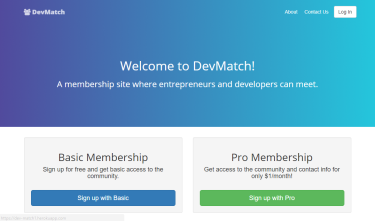
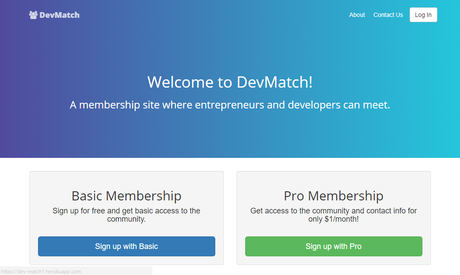
Updated Projects and Skills

diff --git a/index.html b/index.html
@@ -30,7 +30,7 @@
         (i[r].q = i[r].q || []).push(arguments)
       }, i[r].l = 1 * new Date();
       a = s.createElement(o),
-        m = s.getElementsByTagName(o)[0];
+          m = s.getElementsByTagName(o)[0];
       a.async = 1;
       a.src = g;
       m.parentNode.insertBefore(a, m)
@@ -56,6 +56,7 @@
     <a href="#about" onclick="closer()">About</a>
     <a href="#skills" onclick="closer()">Skills</a>
     <a href="#projects" onclick="closer()">Projects</a>
+    <a href="https://jennifertran.github.io/MiniProjects/" onclick="closer()" target="_blank">Mini Projects</a>
     <a href="#contact" onclick="closer()">Contact</a>
   </div>
 
@@ -91,7 +92,8 @@
         <div class="profile">
 
           <!-- Alt is used if the image is not loading -->
-          <center><img src="assets/images/profile.jpg" alt="Simple icon" class="img-responsives img-circle"></center>
+          <center><img src="assets/images/profile.jpg" id="portPic" alt="Simple icon" class="img-responsives
+            img-circle"></center>
         </div>
       </div>
 
@@ -99,12 +101,12 @@
         <div class="about-description">
           <b><h3>About Me</h3></b>
           <hr>
-          <p>I'm currently a Computer Science student at the University of Manitoba who loves learning
+          <p>Hello! I'm currently a Computer Science student at the University of Manitoba who loves learning
             about new software technologies and design. Ever since I was exposed to web development in elementary
-            school,
-            my passion for software have grown tremendously through web design.
+            school, my passion for software have grown tremendously throughout the years.
             <br><br>
-            As a hobby, I like to read, draw, and give back to the community by volunteering at local events. In the
+            As a hobby, I like to read, draw, and give back to the community by volunteering at local events and
+            being one of the leaders of a student group called .devClub. In the
             future, I hope to create some projects that shows people the beauty behind design.</p>
         </div>
 
@@ -126,7 +128,8 @@
         <ul>
           <li>Java</li>
           <li>C</li>
-          <li>C++</li>
+          <li>Python</li>
+          <li>JavaScript</li>
           <li>Ruby</li>
           <li>Ruby on Rails</li>
         </ul>
@@ -139,9 +142,11 @@
         <ul>
           <li>HTML</li>
           <li>CSS</li>
-          <li>JavaScript</li>
+          <li>Flask</li>
+          <li>Bower</li>
           <li>Bootstrap</li>
           <li>jQuery</li>
+          <li>Three.js</li>
         </ul>
         <br>
       </div>
@@ -154,7 +159,8 @@
           <li>Android</li>
           <li>UI/UX Design</li>
           <li>Git</li>
-          <li>A-Frame</li>
+          <li>UNIX</li>
+          <li>Latex</li>
         </ul>
         <br>
       </div>
@@ -172,19 +178,56 @@
 
     <div class="row">
       <div>
+        <!-- Music Visualizer -->
+        <div class="col-md-5">
+          <center><img src="assets/images/visualizer.png" alt="Music Visualizer" class="img-responsive"></center>
+        </div>
+        <div class="col-md-7">
+          <b><h3>Music Visualizer</h3></b>
+          <hr>
+          <p>Dynamically displays a visual effect that is responsive to an audio track with dynamic interfaces</p>
+          <br>
+          <p><a href="https://jennifertran.github.io/MusicVisualizer/" target="_blank">Demo</a> | <a
+                  href="https://github.com/jennifertran/MusicVisualizer" target="_blank">Source</a></p>
+        </div>
+      </div>
+    </div>
+
+    <br>
+
+    <div class="row">
+      <div>
+        <!-- Search Engine Award -->
+        <div class="col-md-5">
+          <center><img src="assets/images/searchengineaward.png" alt="Search Engine Award" class="img-responsive"></center>
+        </div>
+        <div class="col-md-7">
+          <b><h3>Search Engine Award</h3></b>
+          <hr>
+          <p>An improved version of the University of Manitoba's Award's Database, made for an Industry Project</p>
+          <br>
+          <p><a href="https://searchengineaward.herokuapp.com/" target="_blank">Demo</a> | <a
+                  href="https://github.com/jennifertran/SearchEngineAward" target="_blank">Source</a></p>
+        </div>
+      </div>
+    </div>
+
+    <br>
+
+    <div class="row">
+      <div>
         <!-- Travelers -->
         <div class="col-md-5">
-          <center><img src="assets/images/travelers.jpg" alt="Travelers" class="img-responsive travelers"></center>
+          <center><img src="assets/images/travelers.jpg" alt="Travelers" class="img-responsive"></center>
         </div>
         <div class="col-md-7">
           <b><h3>Travelers</h3></b>
           <hr>
-          <p>A booking application that allows users to book for flights, car rentals, and hotels.</p>
+          <p>A booking application that allows users to book for flights, car rentals, and hotels</p>
           <br>
           <p><a href="https://github.com/jennifertran/Travelers" target="_blank">Source</a></p>
         </div>
       </div>
-
     </div>
 
     <br>
@@ -200,10 +243,10 @@
           <hr>
           <p>A Ruby on Rails app that allows entrepreneurs and developers meetup. Features include a user interface,
             login/logout system with authentication, email notifications, and subscription payments for premium
-            services.</p>
+            services</p>
           <br>
           <p><a href="https://dev-match1.herokuapp.com/" target="_blank">Demo</a> | <a
-            href="https://github.com/jennifertran/DevMatch" target="_blank">Source</a></p>
+                  href="https://github.com/jennifertran/DevMatch" target="_blank">Source</a></p>
         </div>
       </div>
 
@@ -223,7 +266,7 @@
           <p>A coding challenge that builds 30 different projects in 30 days. Used HTML, CSS, JavaScript</p>
           <br>
           <p><a href="https://jennifertran.github.io/JavaScript30/" target="_blank">Demo</a> | <a
-            href="https://github.com/jennifertran/JavaScript30" target="_blank">Source</a></p>
+                  href="https://github.com/jennifertran/JavaScript30" target="_blank">Source</a></p>
         </div>
       </div>
 
@@ -240,10 +283,10 @@
         <div class="col-md-7">
           <b><h3>Mini Projects</h3></b>
           <hr>
-          <p>A collection of experimental web projects ranging from 3D graphics to simple UI interfaces.</p>
+          <p>A collection of experimental web projects ranging from 3D graphics to simple UI interfaces</p>
           <br>
           <p><a href="https://jennifertran.github.io/MiniProjects/" target="_blank">Demo</a> | <a
-            href="https://github.com/jennifertran/MiniProjects" target="_blank">Source</a></p>
+                  href="https://github.com/jennifertran/MiniProjects" target="_blank">Source</a></p>
         </div>
       </div>
 
@@ -261,10 +304,10 @@
           <b><h3>Space Simulator in VR</h3></b>
           <hr>
           <p>An outer space environment in WebVR using the framework A-Frame. Created during MLH Local Hack Day
-            2016.</p>
+            2016</p>
           <br>
           <p><a href="https://jennifertran.github.io/space-simulator/" target="_blank">Demo</a> | <a
-            href="https://github.com/jennifertran/space-simulator" target="_blank">Source</a></p>
+                  href="https://github.com/jennifertran/space-simulator" target="_blank">Source</a></p>
         </div>
       </div>
 
@@ -285,7 +328,7 @@
             jQuery, and BootStrap</p>
           <br>
           <p><a href="https://jennifertran.github.io/online-ordering-system/" target="_blank">Demo</a> | <a
-            href="https://github.com/jennifertran/online-ordering-system" target="_blank">Source</a></p>
+                  href="https://github.com/jennifertran/online-ordering-system" target="_blank">Source</a></p>
         </div>
       </div>
 
@@ -350,22 +393,19 @@
 
   </div>
 </div>
-</div>
 
 <!--Footer-->
 <div class="footer header">
   <div class="container">
-    <center>
-      <footer><p>© 2017 by Jennifer Tran</p></footer>
-    </center>
+    <footer><p>© 2017 by Jennifer Tran</p></footer>
   </div>
 </div>
 
 <!-- Imports jquery,bootstrap, and javascript -->
 <script
-  src="https://code.jquery.com/jquery-3.1.1.js"
-  integrity="sha256-16cdPddA6VdVInumRGo6IbivbERE8p7CQR3HzTBuELA="
-  crossorigin="anonymous"></script>
+        src="https://code.jquery.com/jquery-3.2.1.min.js"
+        integrity="sha256-hwg4gsxgFZhOsEEamdOYGBf13FyQuiTwlAQgxVSNgt4="
+        crossorigin="anonymous"></script>
 <script src="https://maxcdn.bootstrapcdn.com/bootstrap/3.3.7/js/bootstrap.min.js"
         integrity="sha384-Tc5IQib027qvyjSMfHjOMaLkfuWVxZxUPnCJA7l2mCWNIpG9mGCD8wGNIcPD7Txa"
         crossorigin="anonymous"></script>

diff --git a/assets/main.css b/assets/main.css
@@ -1,64 +1,1 @@
-a:link, a:visited{color:#005F6B;}
-p{font-family:'Open Sans', sans-serif;font-size:14pt;}
-h1{font-family:'GilroyBold', 'Montserrat', serif !important;font-size:14vmin !important;}
-h2{font-family:'MoonLight', 'Open Sans', sans-serif !important;font-size:25pt !important;text-align:center;}
-h3{font-family:'MoonBold', 'Open Sans', sans-serif !important;font-size:20pt !important;text-align:center;}
-h4{font-family:'Open Sans', sans-serif;font-size:15pt;}
-li{font-family:'Open Sans', sans-serif;font-size:14pt;}
-@font-face{font-family:GilroyBold;src:url('fonts/Gilroy-ExtraBold.otf');}
-@font-face{font-family:GilroyLight;src:url('fonts/Gilroy-Light.otf');}
-@font-face{font-family:MoonBold;src:url('fonts/Moon-Bold.otf');}
-@font-face{font-family:MoonLight;src:url('fonts/Moon-Light.otf');}
-.navName{font-family:'MoonBold', 'Open Sans', sans-serif;font-size:14pt;color:black;}
-ul{width:70%;margin:auto;}
-.img{position:absolute;top:0;bottom:0;left:0;right:0;margin:auto;}
-.img-responsives{max-width:70%;max-height:70%;}
-.header{background:linear-gradient(rgba(0, 0, 0, 0.2), rgba(0, 0, 0, 0.2)), url(images/background.png) no-repeat center;background-size:cover;}
-.background{position:absolute;z-index:1;}
-.vertical-center{height:100vh;color:white;text-shadow:2px 2px 4px #000000;min-height:100%;min-height:100vh;display:flex;align-items:center;}
-.navbar-default{background-color:white !important;}
-.navbar-default .navbar-brand,
-.navbar-default .navbar-brand:hover,
-.navbar-default .navbar-brand:focus{color:#FFF;}
-.navbar-default .navbar-nav > li > a{color:black !important;}
-.navbar-default .navbar-nav > li > a:hover,
-.navbar-default .navbar-nav > li > a:focus{background-color:#008C9E !important;color:white !important;}
-.navbar-default .navbar-text{color:black;}
-.navbar-default .navbar-toggle{border-color:black;border-radius:5px;border-width:1px;}
-.navbar-default .navbar-toggle:hover,
-.navbar-default .navbar-toggle:focus{background-color:white;}
-.navbar-default .navbar-toggle .icon-bar{background-color:black;}
-.navbar-default .navbar-toggle{border-color:#FFFFFF !important;}
-.navbar-default .navbar-toggle:focus, .navbar-default .navbar-toggle:hover{background-color:#FFF !important;}
-.hr, .contact-icon{color:black;}
-.padding{padding-top:80px;padding-bottom:80px;}
-.about{background-color:white;color:black;margin:15px !important;}
-.skills{color:black;font-family:'Open Sans';background-color:#f5f5f0;display:flex;align-items:center;padding-left:15px !important;padding-right:15px !important;}
-.projects{background-color:white;color:black;margin-left:15px !important;margin-right:15px !important;}
-.contact{background-color:#f5f5f0;color:black;}
-.footer{padding-top:30px;padding-bottom:30px;color:white;font-family:'MoonLight';}
-@media only screen and (max-width:800px){.center{margin-left:10%;}
-}
-@media only screen and (max-width:800px){h2{text-align:left;}
-}
-@media screen and (min-width:700px) and (max-width:1000px){.img-responsives{width:35%;height:auto;}
-}
-.travelers{width:100%;height:auto;}
-@media screen and (min-width:1000px){.about-description{padding-right:20px;}
-}
-@media screen and (max-height:450px){.overlay{overflow-y:auto;}
-.overlay a{font-size:20px}
-.overlay .closebtn{font-size:40px;top:15px;right:35px;}
-}
-.overlay{height:0%;width:100%;position:fixed;z-index:2;top:0;left:0;background-color:#008C9E;overflow-y:hidden;transition:0.5s;}
-.overlay-content{position:relative;top:25%;width:100%;text-align:center;margin-top:30px;}
-.overlay a{font-family:'Open Sans', sans-serif;padding:8px;text-decoration:none;font-size:36px;color:#FFFFFF;display:block;transition:0.3s;}
-.overlay a:hover, .overlay a:focus{color:#f1f1f1;}
-#hamburger-icon{position:fixed;right:60px;font-size:60px;z-index:3;cursor:pointer;display:block;transition:all 1s cubic-bezier(.19, 1, .22, 1)}
-#hamburger-icon .line{position:fixed;display:block;background:black;width:30px;height:4px;transition:all 0.6s cubic-bezier(.5, .1, 0, 1.2);-webkit-transition:all 0.6s cubic-bezier(.5, .1, 0, 1.2);-moz-transition:all 0.6s cubic-bezier(.5, .1, 0, 1.2);}
-#hamburger-icon .line.line-1{top:30px;}
-#hamburger-icon .line.line-2{top:37px;}
-#hamburger-icon .line.line-3{top:44px;}
-#hamburger-icon.active .line-1{transform:translateY(7px) translateX(0) rotate(45deg);-webkit-transform:translateY(7px) translateX(0) rotate(45deg);-moz-transform:translateY(7px) translateX(0) rotate(45deg);}
-#hamburger-icon.active .line-2{opacity:0;}
-#hamburger-icon.active .line-3{transform:translateY(-7px) translateX(0) rotate(-45deg);-webkit-transform:translateY(-7px) translateX(0) rotate(-45deg);-moz-transform:translateY(-7px) translateX(0) rotate(-45deg);}
+.img,ul{margin:auto}.background,.img{position:absolute}.footer,h2,h3{text-align:center}a:link,a:visited{color:#005F6B}li,p{font-family:'Open Sans',sans-serif;font-size:14pt}h1{font-family:GilroyBold,Montserrat,serif!important;font-size:14vmin!important}h2{font-family:MoonLight,'Open Sans',sans-serif!important;font-size:25pt!important}h3{font-family:MoonBold,'Open Sans',sans-serif!important;font-size:20pt!important}h4{font-family:'Open Sans',sans-serif;font-size:15pt}@font-face{font-family:GilroyBold;src:url(fonts/Gilroy-ExtraBold.otf)}@font-face{font-family:GilroyLight;src:url(fonts/Gilroy-Light.otf)}@font-face{font-family:MoonBold;src:url(fonts/Moon-Bold.otf)}@font-face{font-family:MoonLight;src:url(fonts/Moon-Light.otf)}.navName{font-family:MoonBold,'Open Sans',sans-serif;font-size:14pt;color:#000}ul{width:70%}.img{top:0;bottom:0;left:0;right:0}#portPic{padding-top:30px}.img-responsives{max-width:70%;max-height:70%}.header{background:linear-gradient(rgba(0,0,0,.2),rgba(0,0,0,.2)),url(images/background.png) center no-repeat;background-size:cover}.background{z-index:1}.vertical-center{height:100vh;color:#fff;text-shadow:2px 2px 4px #000;min-height:100%;min-height:100vh;display:flex;align-items:center}.navbar-default{background-color:#fff!important}.navbar-default .navbar-brand,.navbar-default .navbar-brand:focus,.navbar-default .navbar-brand:hover{color:#FFF}.navbar-default .navbar-nav>li>a{color:#000!important}.navbar-default .navbar-nav>li>a:focus,.navbar-default .navbar-nav>li>a:hover{background-color:#008C9E!important;color:#fff!important}.about,.contact,.contact-icon,.hr,.navbar-default .navbar-text,.projects,.skills{color:#000}.navbar-default .navbar-toggle{border-radius:5px;border-width:1px;border-color:#FFF!important}.navbar-default .navbar-toggle .icon-bar{background-color:#000}.navbar-default .navbar-toggle:focus,.navbar-default .navbar-toggle:hover{background-color:#FFF!important}.padding{padding-top:50px;padding-bottom:80px}.about{background-color:#fff;margin:15px!important}.skills{font-family:'Open Sans';background-color:#f5f5f0;display:flex;align-items:center;padding-left:15px!important;padding-right:15px!important}.projects{background-color:#fff;margin-left:15px!important;margin-right:15px!important}.contact{background-color:#f5f5f0}.footer{padding-top:30px;display:flex;padding-bottom:30px;color:#fff;font-family:MoonLight}@media only screen and (max-width:800px){.center{margin-left:10%}h2{text-align:left}#portPic{padding-top:0!important}}@media screen and (min-width:700px) and (max-width:1000px){.img-responsives{width:35%;height:auto}}@media screen and (min-width:1024px){.about-description{padding-right:20px}}@media screen and (max-height:450px){.overlay{overflow-y:auto}.overlay a{font-size:20px}.overlay .closebtn{font-size:40px;top:15px;right:35px}}.overlay{height:0%;width:100%;position:fixed;z-index:2;top:0;left:0;background-color:#008C9E;overflow-y:hidden;transition:.5s}.overlay-content{position:relative;top:20%;width:100%;text-align:center;margin-top:30px}.overlay a{font-family:'Open Sans',sans-serif;padding:8px;text-decoration:none;font-size:36px;color:#FFF;display:block;transition:.3s}.overlay a:focus,.overlay a:hover{color:#f1f1f1}#hamburger-icon{position:fixed;right:60px;font-size:60px;z-index:3;cursor:pointer;display:block;transition:all 1s cubic-bezier(.19,1,.22,1)}#hamburger-icon .line{position:fixed;display:block;background:#000;width:30px;height:4px;transition:all .6s cubic-bezier(.5,.1,0,1.2);-webkit-transition:all .6s cubic-bezier(.5,.1,0,1.2);-moz-transition:all .6s cubic-bezier(.5,.1,0,1.2)}#hamburger-icon .line.line-1{top:30px}#hamburger-icon .line.line-2{top:37px}#hamburger-icon .line.line-3{top:44px}#hamburger-icon.active .line-1{transform:translateY(7px) translateX(0) rotate(45deg);-webkit-transform:translateY(7px) translateX(0) rotate(45deg);-moz-transform:translateY(7px) translateX(0) rotate(45deg)}#hamburger-icon.active .line-2{opacity:0}#hamburger-icon.active .line-3{transform:translateY(-7px) translateX(0) rotate(-45deg);-webkit-transform:translateY(-7px) translateX(0) rotate(-45deg);-moz-transform:translateY(-7px) translateX(0) rotate(-45deg)}
